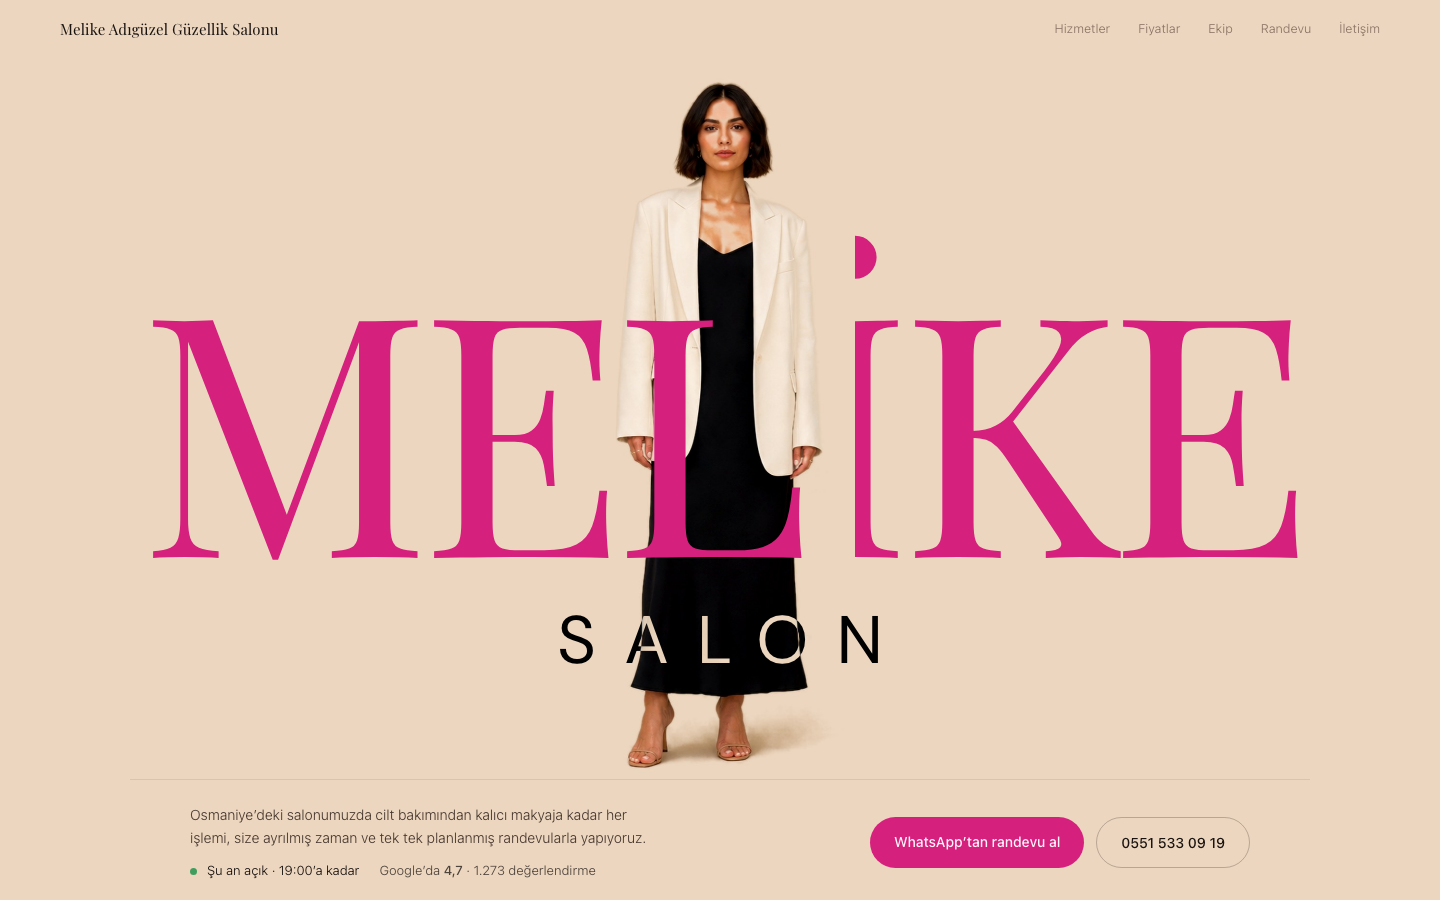
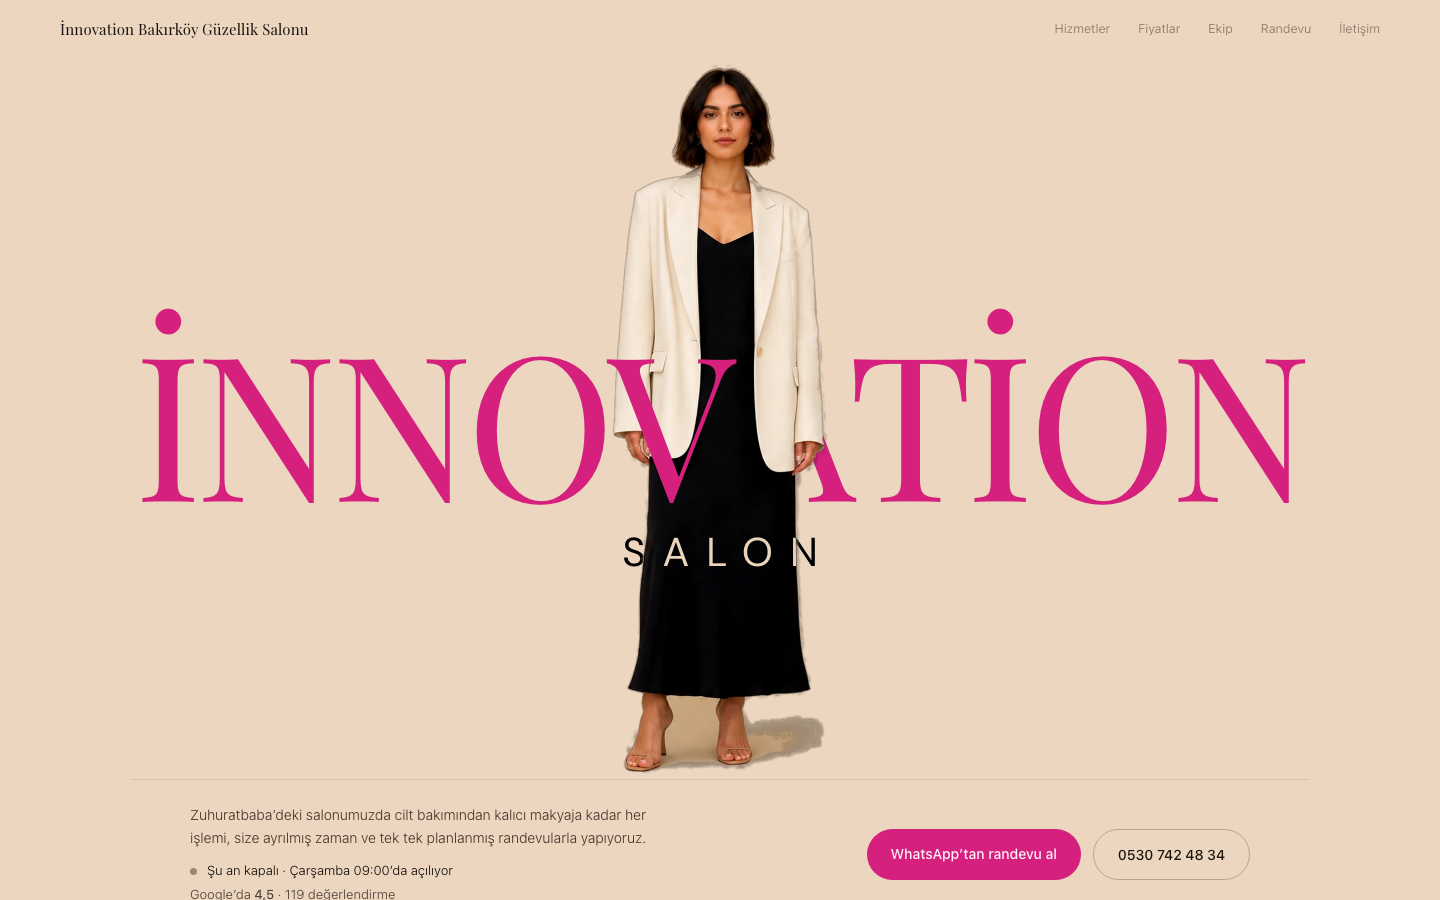
fix(cutout-and-studio): cut the subject out, fix /studio/leads and eject (#14)
Three things, all of which only showed up outside my own screenshots.

The photograph's backdrop was matched to the page ground rather than removed.
That held in headless Chromium — I checked it pixel by pixel — and did not
hold in the operator's browser, where the rectangle was plainly visible cutting
through the letterforms. A cut-out removes the class of problem instead of the
instance, and it is what the artifact does.

The matte is not a threshold: her skin sits close to the backdrop, and keying on
colour distance alone punches holes through her face. The backdrop is one region
connected to the frame edge and she is not part of it, so the key only proposes
candidates and a border flood fill decides. Afterwards only the blob connected
to her survives, which drops every patch of paper texture the background model
got wrong, and edge pixels are decontaminated so there is no beige fringe on a
ground that is not this beige.

/studio/leads was crashing in production — "Element type is invalid … got:
undefined" — because three components were hung off another component as static
properties and used as `<LeadsTools.AddLead />`. Across the server/client
boundary a "use client" module becomes a reference proxy carrying only its
exports, so the property arrives undefined. They are named exports now, and a
test guards the shape; nothing local caught this because the studio pages are
force-dynamic and never rendered at build time.
[…]

diff --git a/scripts/eject.ts b/scripts/eject.ts
@@ -26,16 +26,30 @@ async function loadContent(slug: string): Promise<SiteContent> {
   return SiteContentSchema.parse(site.content);
 }
 
-/** Images are downloaded so the delivered site never hotlinks back to Google or to us. */
+/**
+ * Remote images are downloaded so the delivered site never hotlinks back to Google or to
+ * us. Root-relative sources are already local — they are the preset's own photography,
+ * copied wholesale from public/stock — and passing one to fetch() throws, which used to
+ * break eject outright for every template that ships with its own pictures.
+ */
 async function localiseImages(content: SiteContent, outDir: string): Promise<SiteContent> {
   await mkdir(path.join(outDir, "public/images"), { recursive: true });
   const cache = new Map<string, string>();
 
   const download = async (url: string): Promise<string> => {
+    if (url.startsWith("/")) return url;
     if (cache.has(url)) return cache.get(url)!;
-    const name = `image-${cache.size + 1}.jpg`;
     const response = await fetch(url);
     if (!response.ok) throw new Error(`could not download ${url} (${response.status})`);
+    const type = response.headers.get("content-type") ?? "";
+    const extension = type.includes("png")
+      ? "png"
+      : type.includes("webp")
+        ? "webp"
+        : type.includes("avif")
+          ? "avif"
+          : "jpg";
+    const name = `image-${cache.size + 1}.${extension}`;
     await writeFile(
       path.join(outDir, "public/images", name),
       Buffer.from(await response.arrayBuffer()),
@@ -119,6 +133,12 @@ async function main() {
   // Tests and the operator's own fixtures are not the client's business, and a stray
   // test file fails their build by importing a fixture that was not copied.
   await stripDevFiles(outDir);
+
+  // The presets carry their own photography and reference it by root-relative path, so
+  // it has to travel with them or the client's site renders a page of broken images.
+  await cp(path.join(ROOT, "public/stock"), path.join(outDir, "public/stock"), {
+    recursive: true,
+  });
 
   const local = await localiseImages(content, outDir);
   await writeFile(path.join(outDir, "site.content.json"), `${JSON.stringify(local, null, 2)}\n`);

diff --git a/packs/presets.test.ts b/packs/presets.test.ts
@@ -1,5 +1,5 @@
 import { describe, expect, it } from "vitest";
-import { readFileSync } from "node:fs";
+import { existsSync, readFileSync } from "node:fs";
 import { BEAUTY_PRESETS } from "./beauty/preset";
 import { TURKISH_GLYPHS, TURKISH_SAFE_FONTS, fontStack } from "./fonts";
 import { presetCssVars } from "./types";
@@ -26,6 +26,34 @@ describe("Turkish-safe font registry", () => {
 
   it("covers the full Turkish glyph set in the constant the registry is checked against", () => {
     expect(TURKISH_GLYPHS).toBe("ıİşŞğĞçÇöÖüÜ");
+  });
+});
+
+describe("preset photography", () => {
+  const paths = ALL_PRESETS.flatMap((preset) =>
+    preset.stock
+      ? [preset.stock.hero, ...(preset.stock.tiles ?? []), ...(preset.stock.staff ?? [])]
+      : [],
+  );
+
+  it("is referenced by root-relative path, so it ejects with the render layer", () => {
+    for (const src of paths) expect(src.startsWith("/stock/"), src).toBe(true);
+  });
+
+  it("all exists on disk", () => {
+    // A preset pointing at a file that is not there renders a broken image on a demo
+    // and, worse, ships that hole into a client's repository. Renaming an asset without
+    // renaming its reference is the way this happens.
+    for (const src of new Set(paths)) {
+      expect(existsSync(`public${src}`), `missing public${src}`).toBe(true);
+    }
+  });
+
+  it("gives every salon preset a hero, tiles and staff", () => {
+    for (const preset of ALL_PRESETS.filter((candidate) => candidate.stock)) {
+      expect(preset.stock!.tiles?.length, `${preset.id} tiles`).toBeGreaterThan(0);
+      expect(preset.stock!.staff?.length, `${preset.id} staff`).toBeGreaterThan(0);
+    }
   });
 });
 

diff --git a/app/studio/studio.test.ts b/app/studio/studio.test.ts
@@ -1,0 +1,33 @@
+import { describe, expect, it } from "vitest";
+import * as LeadsTools from "./leads/LeadsTools";
+
+/**
+ * The leads page crashed in production with "Element type is invalid … got: undefined",
+ * and nothing local caught it: the studio pages are force-dynamic, so `next build` never
+ * renders them, and there are no tests that mount them.
+ *
+ * The cause was three components attached to another component as static properties
+ * (`LeadsTools.AddLead = AddLead`) and used from a server component as
+ * `<LeadsTools.AddLead />`. Across the server/client boundary a "use client" module is
+ * replaced by a reference proxy that only carries its *exports*, so anything hung off a
+ * function object arrives undefined and React throws at render.
+ *
+ * This asserts the shape that mistake breaks: every component the leads page mounts is a
+ * real named export of the client module.
+ */
+describe("the studio's client components", () => {
+  for (const name of ["ImportLeads", "AddLead", "BuildButton"] as const) {
+    it(`exports ${name} by name, not as a property of another component`, () => {
+      expect(typeof LeadsTools[name]).toBe("function");
+    });
+  }
+
+  it("hangs nothing off a component that would be lost at the boundary", () => {
+    for (const value of Object.values(LeadsTools)) {
+      if (typeof value !== "function") continue;
+      const own = value as unknown as Record<string, unknown>;
+      const attached = Object.keys(own).filter((key) => typeof own[key] === "function");
+      expect(attached, `${value.name} carries components as static properties`).toEqual([]);
+    }
+  });
+});

diff --git a/app/studio/leads/LeadsTools.tsx b/app/studio/leads/LeadsTools.tsx
@@ -3,7 +3,7 @@
 import { useActionState } from "react";
 import { addLead, buildDemo, importSheet } from "../actions";
 
-export function LeadsTools() {
+export function ImportLeads() {
   const [message, action, pending] = useActionState(importSheet, null);
 
   return (
@@ -37,7 +37,7 @@ export function LeadsTools() {
  * see a disclosure triangle under the CSV box, and reported the feature missing. A form
  * you have to discover is a form that does not exist.
  */
-function AddLead() {
+export function AddLead() {
   const [message, action, pending] = useActionState(addLead, null);
 
   return (
@@ -104,7 +104,7 @@ function Field({
   );
 }
 
-function BuildButton({ leadId }: { leadId: string }) {
+export function BuildButton({ leadId }: { leadId: string }) {
   const [message, action, pending] = useActionState(buildDemo, null);
   return (
     <form action={action}>
@@ -120,6 +120,3 @@ function BuildButton({ leadId }: { leadId: string }) {
     </form>
   );
 }
-
-LeadsTools.BuildButton = BuildButton;
-LeadsTools.AddLead = AddLead;

diff --git a/app/studio/leads/page.tsx b/app/studio/leads/page.tsx
@@ -1,7 +1,7 @@
 import Link from "next/link";
 import { listLeads } from "@/lib/db/leads";
 import { INDUSTRY_LABELS_TR, type Industry } from "@/lib/leads/industry";
-import { LeadsTools } from "./LeadsTools";
+import { AddLead, BuildButton, ImportLeads } from "./LeadsTools";
 
 export const dynamic = "force-dynamic";
 
@@ -19,8 +19,8 @@ export default async function LeadsPage() {
         {leads.length} leads · {buildable.length} have an industry pack
       </p>
 
-      <LeadsTools />
-      <LeadsTools.AddLead />
+      <ImportLeads />
+      <AddLead />
 
       {leads.length > 0 ? (
         <table style={{ marginTop: 24 }}>
@@ -55,7 +55,7 @@ export default async function LeadsPage() {
                     {lead.hasSite ? (
                       <Link href={`/studio/${lead.slug}`}>edit →</Link>
                     ) : (
-                      <LeadsTools.BuildButton leadId={lead.id} />
+                      <BuildButton leadId={lead.id} />
                     )}
                   </td>
                 </tr>

diff --git a/packs/beauty/preset.ts b/packs/beauty/preset.ts
@@ -98,7 +98,7 @@ export const krom: Preset = {
 export const kesim: Preset = {
   id: "kesim",
   stock: {
-    hero: "/stock/kesim-woman.jpg",
+    hero: "/stock/kesim-woman.webp",
     heroAlt: "Salonumuzun stil çekiminden bir kare",
     tiles: [
       "/stock/thumb-1.jpg",

diff --git a/docs/DECISIONS.md b/docs/DECISIONS.md
@@ -50,3 +50,7 @@ Append-only. One line per decision, newest last.
 2026-09-08 — The studio's "Add a lead by hand" form is a plain section, not a collapsed <details> — the operator looked for it, missed the disclosure triangle, and reported the feature as missing.
 2026-09-08 — The Kesim name is drawn twice, once behind the subject and once in front, each copy hiding the half that belongs to the other: the first half of the letters passes in front of her, the second half behind. That single detail — the A of BEAUTY crossing the sleeve while the U right after it disappears behind the body — is what gives the reference its depth, and a word simply placed behind the figure does not have it.
 2026-09-08 — SALON uses mix-blend-mode: difference against the ground colour instead of an outline: it cancels to pure black on the ground and returns the ground colour over her black dress, which is the two-tone the reference has. The stage carries isolation:isolate AND an opaque background — an isolated group starts on transparent black, so without the background the letters kept their own colour and vanished against the ground.
+2026-09-08 — The Kesim subject is a transparent WebP cut-out, not a photograph whose backdrop matches the ground. Matching worked in headless Chromium and did not in the operator's browser — the rectangle was plainly visible — and a cut-out removes the class of problem rather than the instance.
+2026-09-08 — The matte is a border flood fill on a local-background distance map, not a threshold: her skin sits close to the backdrop, so thresholding alone punched holes through her face. The backdrop is one region connected to the frame edge and she is not part of it. Afterwards only the blob connected to her is kept, which drops every patch of paper texture the background model got wrong, and edge pixels are decontaminated so there is no beige fringe on a different ground.
+2026-09-08 — Studio client components are named exports, never properties hung off another component. `<LeadsTools.AddLead />` crashed /studio/leads in production with "Element type is invalid": across the server/client boundary a "use client" module becomes a reference proxy carrying only its exports, so the property arrived undefined. app/studio/studio.test.ts guards the shape.
+2026-09-08 — `npm run eject` copies public/stock and leaves root-relative image paths alone. It was calling fetch() on "/stock/…", which throws — eject was broken outright for every template that ships with its own photography, i.e. all six salon templates.
